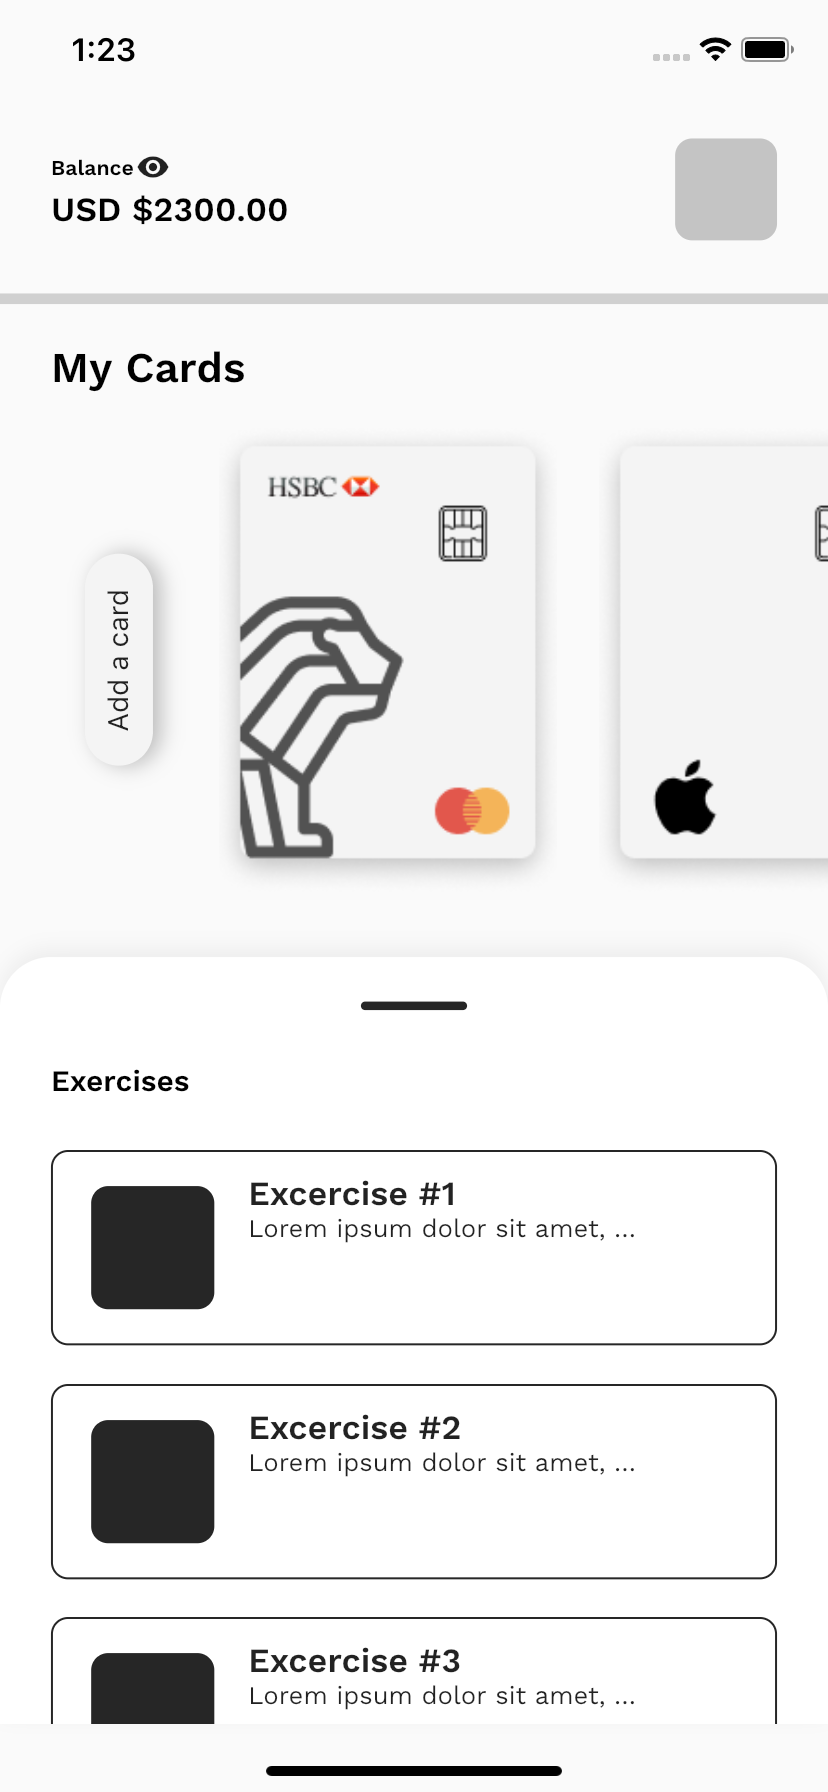
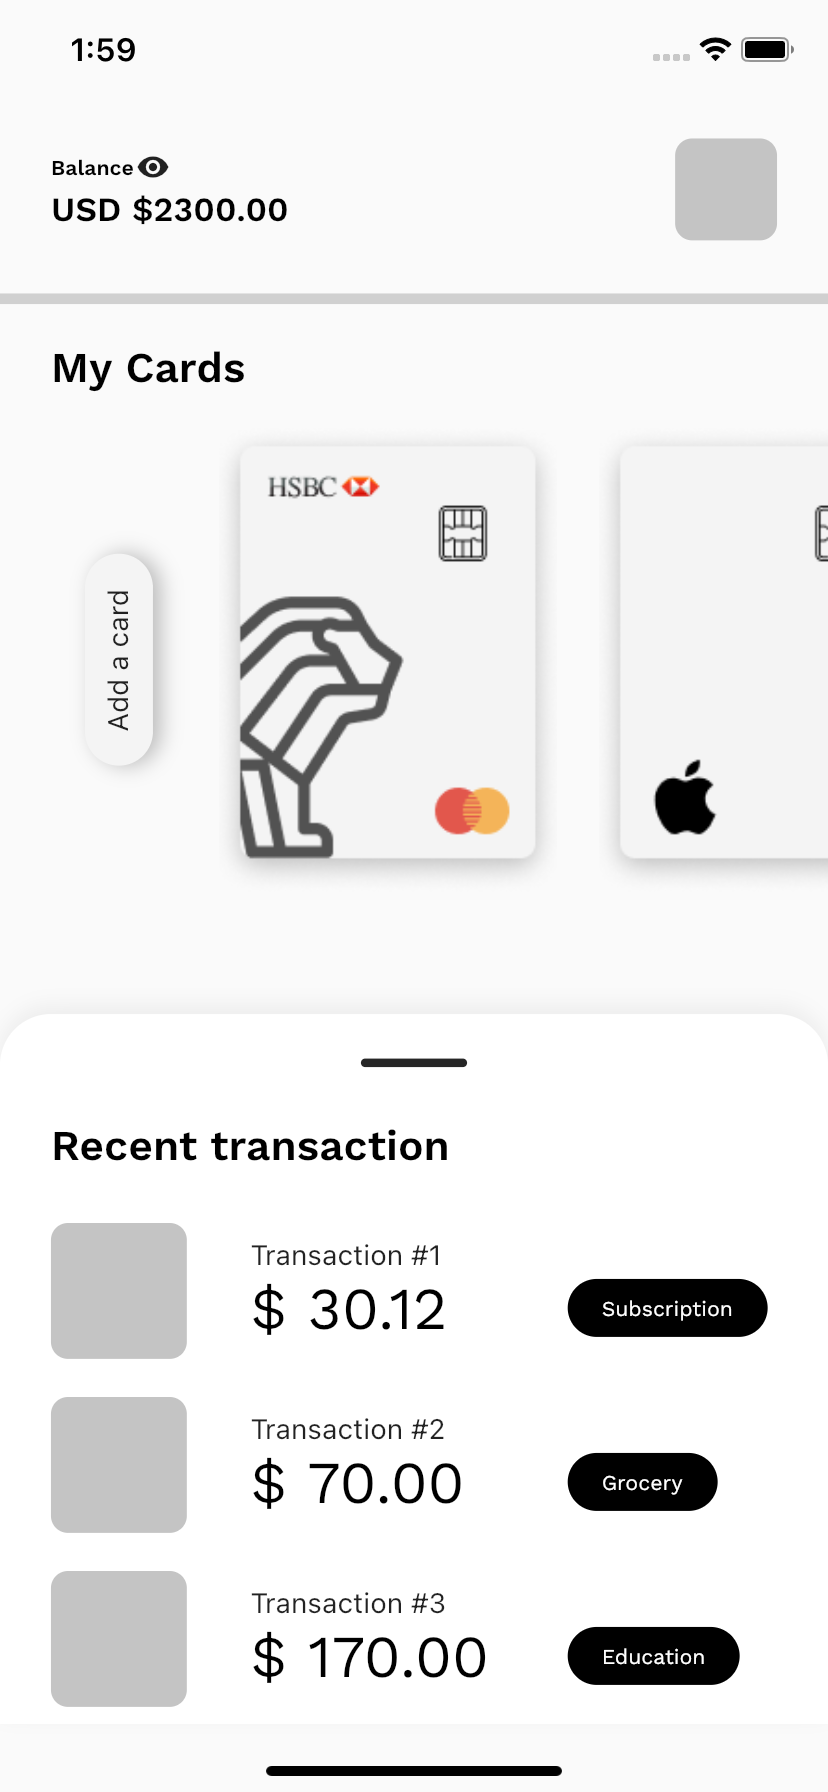
Edited screenshot

diff --git a/lib/src/mobile_ui/8/page8.dart b/lib/src/mobile_ui/8/page8.dart
@@ -15,7 +15,11 @@ class Page8 extends StatefulWidget {
 
 class _Page8State extends State<Page8> {
   List<String> cards = [AssetResources.PG8_CARD1, AssetResources.PG8_CARD2];
-
+  List<Page8Model> models = [
+    Page8Model("30.12", "Subscription"),
+    Page8Model("70.00", "Grocery"),
+    Page8Model("170.00", "Education")
+  ];
   @override
   Widget build(BuildContext context) {
     return Scaffold(
@@ -24,8 +28,7 @@ class _Page8State extends State<Page8> {
           crossAxisAlignment: CrossAxisAlignment.stretch,
           children: [
             Padding(
-              padding: EdgeInsets.only(
-                  left: 24.h, right: 24.h, top: 20.h, bottom: 25.h),
+              padding: EdgeInsets.only(left: 24.h, right: 24.h, top: 20.h, bottom: 25.h),
               child: Row(
                 crossAxisAlignment: CrossAxisAlignment.center,
                 mainAxisAlignment: MainAxisAlignment.spaceBetween,
@@ -128,19 +131,18 @@ class _Page8State extends State<Page8> {
                                           ),
                                           boxShadow: [
                                             BoxShadow(
-                                              color: Colors.black
-                                                  .withOpacity(0.25),
+                                              color: Colors.black.withOpacity(0.25),
                                               spreadRadius: 0,
                                               blurRadius: 8,
-                                              offset: const Offset(0,
-                                                  4), // changes position of shadow
+                                              offset:
+                                                  const Offset(0, 4), // changes position of shadow
                                             ),
                                           ],
                                         ),
                                         child: const Text("Add a card"),
                                         margin: EdgeInsets.only(top: 16.w),
-                                        padding: EdgeInsets.symmetric(
-                                            horizontal: 16.w, vertical: 8.h),
+                                        padding:
+                                            EdgeInsets.symmetric(horizontal: 16.w, vertical: 8.h),
                                       ),
                                     )
                                   ],
@@ -177,15 +179,13 @@ class _Page8State extends State<Page8> {
                                     decoration: BoxDecoration(
                                       // color: Colors.black,
                                       image: DecorationImage(
-                                          image: AssetImage(cards[i - 1]),
-                                          fit: BoxFit.cover),
+                                          image: AssetImage(cards[i - 1]), fit: BoxFit.cover),
                                     ),
                                   ),
                                 ),
                               );
                             },
-                            separatorBuilder:
-                                (BuildContext context, int index) {
+                            separatorBuilder: (BuildContext context, int index) {
                               if (index == 0) {
                                 return SizedBox(
                                   width: 31.w,
@@ -214,12 +214,10 @@ class _Page8State extends State<Page8> {
                             ),
                             boxShadow: [
                               BoxShadow(
-                                color:
-                                    const Color(0xffC4C4C4).withOpacity(0.25),
+                                color: const Color(0xffC4C4C4).withOpacity(0.25),
                                 spreadRadius: 0,
                                 blurRadius: 8,
-                                offset: const Offset(
-                                    0, -4), // changes position of shadow
+                                offset: const Offset(0, -4), // changes position of shadow
                               ),
                             ],
                           ),
@@ -239,25 +237,20 @@ class _Page8State extends State<Page8> {
                                       height: 4.h,
                                       decoration: BoxDecoration(
                                           color: const Color(0xff262626),
-                                          borderRadius:
-                                              BorderRadius.circular(50.r)),
+                                          borderRadius: BorderRadius.circular(50.r)),
                                       margin: EdgeInsets.only(top: 21.h),
                                     ),
                                     Padding(
                                       padding: EdgeInsets.only(
-                                          left: 24.w,
-                                          right: 24.w,
-                                          bottom: 25.h,
-                                          top: 25.h),
+                                          left: 24.w, right: 24.w, bottom: 25.h, top: 25.h),
                                       child: Row(
-                                        mainAxisAlignment:
-                                            MainAxisAlignment.spaceBetween,
+                                        mainAxisAlignment: MainAxisAlignment.spaceBetween,
                                         children: [
                                           Text(
-                                            "Exercises",
+                                            "Recent transaction",
                                             style: GoogleFonts.workSans(
                                               textStyle: TextStyle(
-                                                fontSize: 14.sp,
+                                                fontSize: 20.sp,
                                                 color: Colors.black,
                                                 fontStyle: FontStyle.normal,
                                                 fontWeight: FontWeight.w600,
@@ -270,121 +263,91 @@ class _Page8State extends State<Page8> {
                                   ],
                                 ),
                                 ListView.separated(
-                                    shrinkWrap: true,
-                                    controller: scrollController,
-                                    physics:
-                                        const NeverScrollableScrollPhysics(),
-                                    itemBuilder: (c, i) {
-                                      return Container(
-                                        height: 92.h,
-                                        margin: EdgeInsets.only(
-                                            left: 24.w, right: 24.w),
-                                        padding: EdgeInsets.only(
-                                            left: 18.w, right: 18.w),
-                                        decoration: BoxDecoration(
-                                            border: Border.all(
-                                                color: const Color(0xff262626)),
-                                            borderRadius:
-                                                BorderRadius.circular(8.r)),
+                                  shrinkWrap: true,
+                                  controller: scrollController,
+                                  physics: const NeverScrollableScrollPhysics(),
+                                  itemBuilder: (c, i) {
+                                    return Padding(
+                                      padding: EdgeInsets.only(
+                                        left: 24.w,
+                                        right: 23.w,
+                                      ),
+                                      child: Center(
                                         child: Row(
-                                          mainAxisSize: MainAxisSize.max,
-                                          // crossAxisAlignment: CrossAxisAlignment.start,
+                                          mainAxisAlignment: MainAxisAlignment.start,
+                                          crossAxisAlignment: CrossAxisAlignment.center,
                                           children: [
-                                            Center(
-                                              child: ClipRRect(
-                                                borderRadius:
-                                                    BorderRadius.circular(8.r),
-                                                child: Container(
-                                                  width: 58.h,
-                                                  height: 58.h,
-                                                  color:
-                                                      const Color(0xff262626),
-                                                ),
+                                            ClipRRect(
+                                              borderRadius: BorderRadius.circular(8.r),
+                                              child: Container(
+                                                width: 64.r,
+                                                height: 64.r,
+                                                color: AppColors.grey,
+                                              ),
+                                            ),
+                                            SizedBox(width: 30.w),
+                                            Expanded(
+                                              flex: 3,
+                                              child: Column(
+                                                crossAxisAlignment: CrossAxisAlignment.start,
+                                                children: [
+                                                  Text("Transaction #${i + 1}"),
+                                                  Text(
+                                                    "\$ ${models[i].price}",
+                                                    style: GoogleFonts.workSans(
+                                                      textStyle: TextStyle(
+                                                        fontSize: 28.sp,
+                                                        color: Colors.black,
+                                                        fontStyle: FontStyle.normal,
+                                                        fontWeight: FontWeight.w400,
+                                                      ),
+                                                    ),
+                                                  )
+                                                ],
                                               ),
                                             ),
                                             Expanded(
-                                              child: Row(
-                                                crossAxisAlignment:
-                                                    CrossAxisAlignment.start,
-                                                mainAxisAlignment:
-                                                    MainAxisAlignment
-                                                        .spaceBetween,
-                                                children: [
-                                                  Expanded(
-                                                    child: Padding(
-                                                      padding:
-                                                          EdgeInsets.symmetric(
-                                                        horizontal: 16.w,
-                                                        vertical: 10.h,
+                                                flex: 2,
+                                                child: Row(
+                                                  mainAxisAlignment: MainAxisAlignment.start,
+                                                  crossAxisAlignment: CrossAxisAlignment.center,
+                                                  children: [
+                                                    Container(
+                                                      decoration: BoxDecoration(
+                                                        color: const Color(0xff262626),
+                                                        borderRadius: BorderRadius.all(
+                                                          Radius.circular(48.r),
+                                                        ),
                                                       ),
-                                                      child: Column(
-                                                        mainAxisAlignment:
-                                                            MainAxisAlignment
-                                                                .start,
-                                                        crossAxisAlignment:
-                                                            CrossAxisAlignment
-                                                                .start,
-                                                        children: [
-                                                          Flexible(
-                                                            child: Text(
-                                                              "Excercise #${i + 1}",
-                                                              style: GoogleFonts
-                                                                  .workSans(
-                                                                textStyle:
-                                                                    TextStyle(
-                                                                  fontSize:
-                                                                      16.sp,
-                                                                  fontStyle:
-                                                                      FontStyle
-                                                                          .normal,
-                                                                  fontWeight:
-                                                                      FontWeight
-                                                                          .w600,
-                                                                ),
-                                                              ),
-                                                              maxLines: 3,
-                                                              overflow:
-                                                                  TextOverflow
-                                                                      .ellipsis,
-                                                            ),
+                                                      child: Text(
+                                                        models[i].buttonText,
+                                                        style: GoogleFonts.workSans(
+                                                          textStyle: TextStyle(
+                                                            fontSize: 10.sp,
+                                                            color: Colors.white,
+                                                            fontStyle: FontStyle.normal,
+                                                            fontWeight: FontWeight.w400,
                                                           ),
-                                                          Text(
-                                                            "Lorem ipsum dolor sit amet, consectetur adipiscing elit.",
-                                                            style: GoogleFonts
-                                                                .workSans(
-                                                              textStyle:
-                                                                  TextStyle(
-                                                                fontSize: 12.sp,
-                                                                fontStyle:
-                                                                    FontStyle
-                                                                        .normal,
-                                                                fontWeight:
-                                                                    FontWeight
-                                                                        .w400,
-                                                              ),
-                                                            ),
-                                                            maxLines: 1,
-                                                            overflow:
-                                                                TextOverflow
-                                                                    .ellipsis,
-                                                          ),
-                                                        ],
+                                                        ),
                                                       ),
+                                                      margin: EdgeInsets.only(top: 16.w),
+                                                      padding: EdgeInsets.symmetric(
+                                                          horizontal: 16.w, vertical: 8.h),
                                                     ),
-                                                  ),
-                                                ],
-                                              ),
-                                            )
+                                                  ],
+                                                )),
                                           ],
                                         ),
-                                      );
-                                    },
-                                    separatorBuilder: (c, i) {
-                                      return SizedBox(
-                                        height: 18.h,
-                                      );
-                                    },
-                                    itemCount: 4)
+                                      ),
+                                    );
+                                  },
+                                  separatorBuilder: (c, i) {
+                                    return SizedBox(
+                                      height: 18.h,
+                                    );
+                                  },
+                                  itemCount: models.length,
+                                )
                               ],
                             ),
                           ),
@@ -398,4 +361,11 @@ class _Page8State extends State<Page8> {
       ),
     );
   }
+}
+
+class Page8Model {
+  final String price;
+  final String buttonText;
+
+  Page8Model(this.price, this.buttonText);
 }
